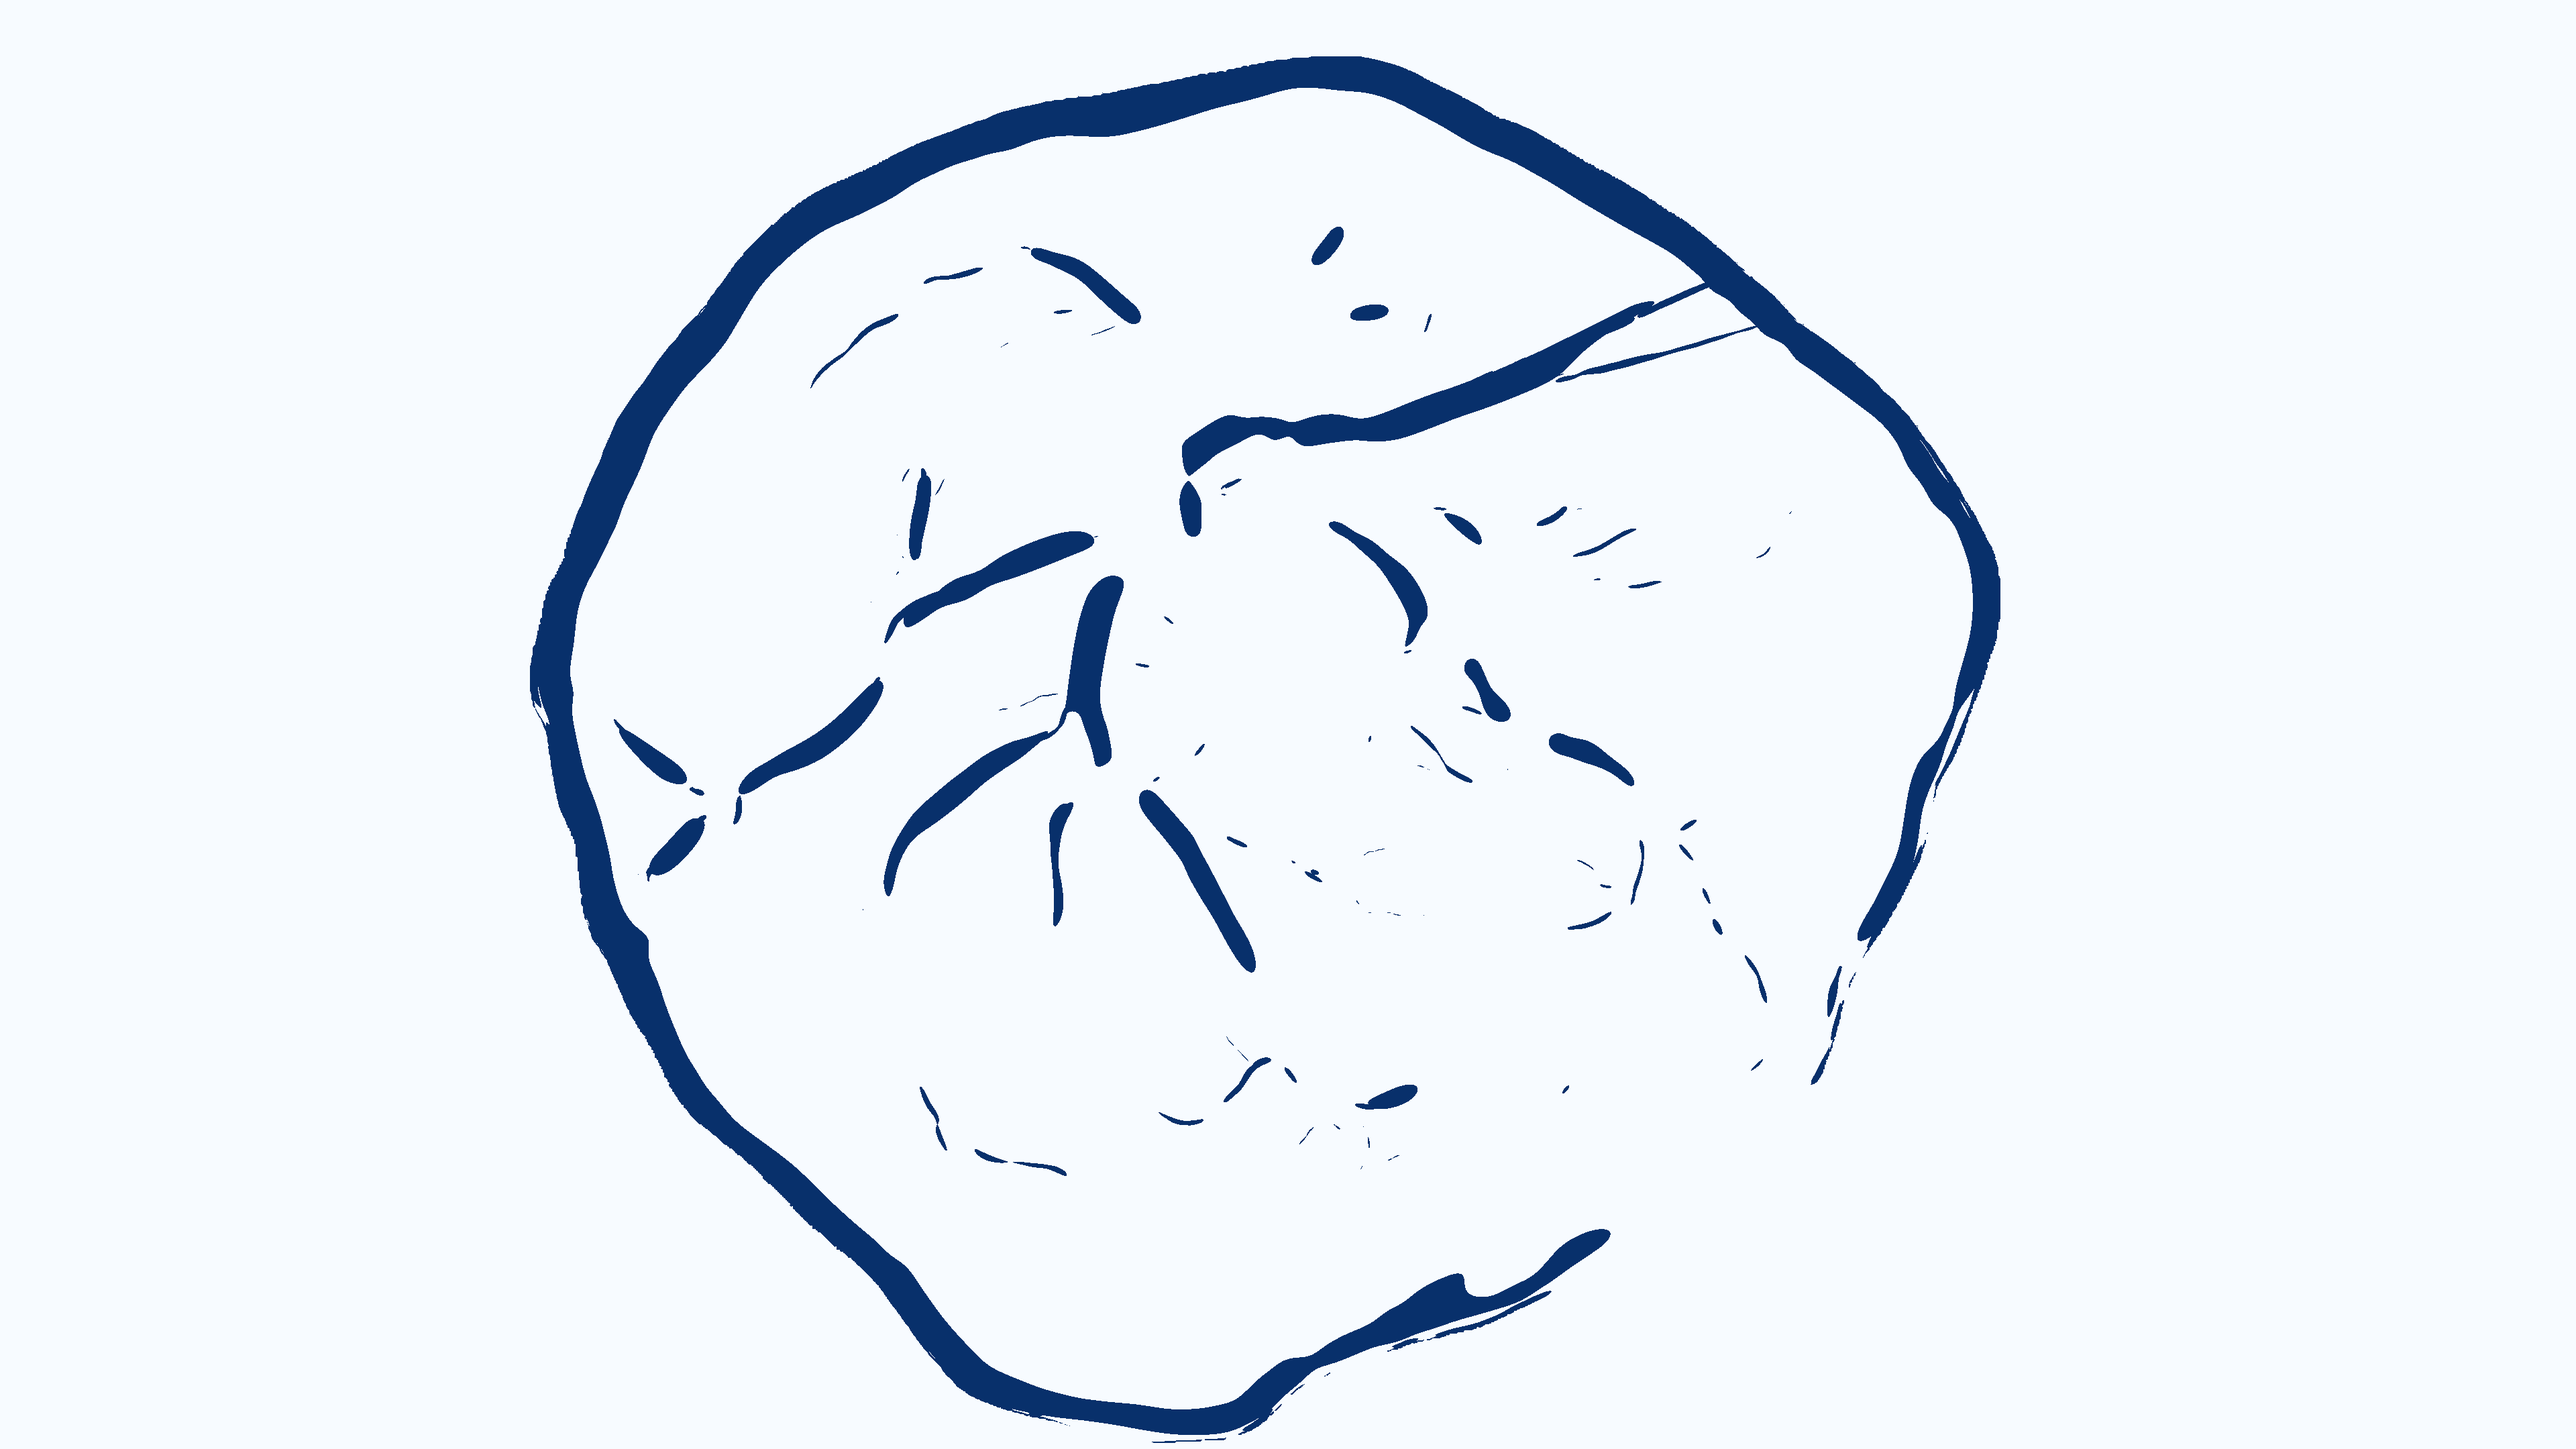
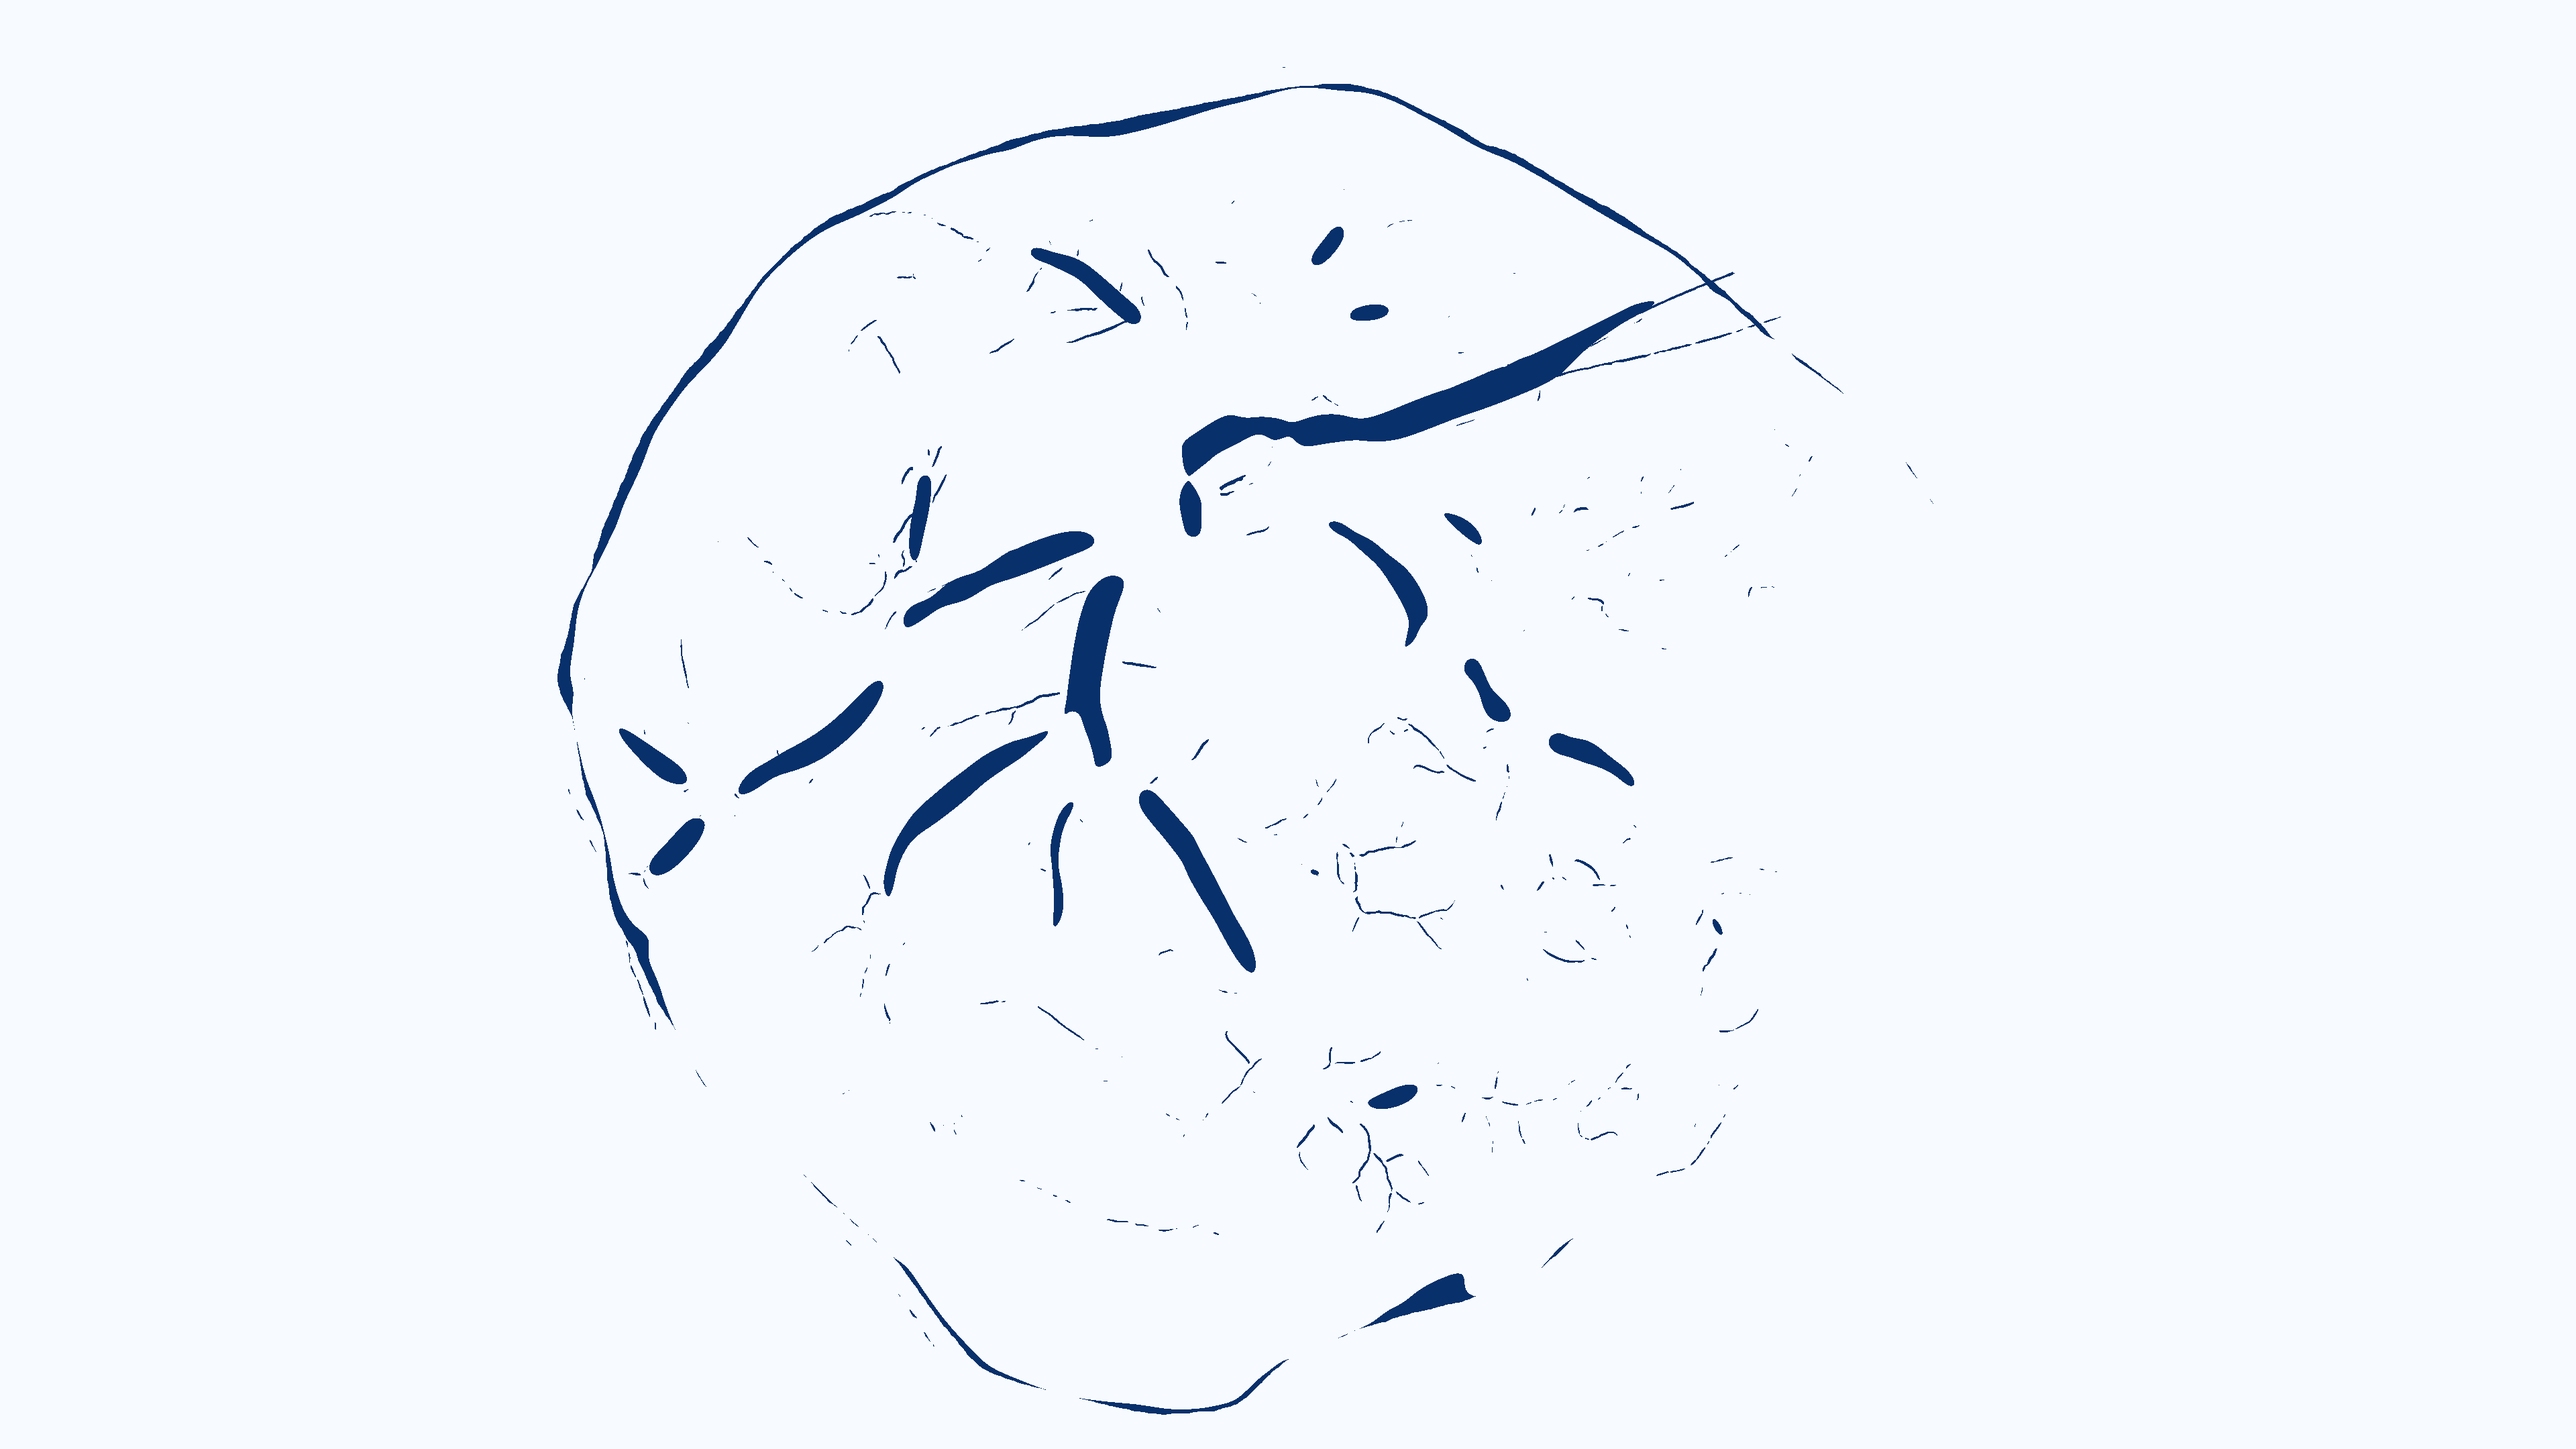
dilate plate, not erode (better logic, not much faster)

diff --git a/pcsvn.py b/pcsvn.py
@@ -9,7 +9,8 @@ import numpy as np
 import numpy.ma as ma
 import pickle
 
-from skimage.morphology import label, skeletonize, disk, binary_erosion, convex_hull_image
+from skimage.morphology import label, skeletonize, disk, binary_erosion, convex_hull_image, binary_dilation
+from skimage.segmentation import find_boundaries
 
 
 def make_multiscale(img, scales, betas, gammas, find_principal_directions=False, VERBOSE=True):
@@ -151,7 +152,29 @@ def erode_plate(img, erosion_radius=20, plate_mask=None):
     # this is by default additive with whatever
     return ma.masked_array(img, mask=eroded_mask)
 
+def dilate_plate(img, radius=10, plate_mask=None):
+    """
+    grows the mask by a specified radius
+    can this return a masked image rather than return a new one
+    to be more memory efficient? or should this just return a
+    mask to be applied?
+    """
 
+    if plate_mask is None:
+        # grab the mask from input image
+        try:
+            plate_mask = img.mask
+        except AttributeError:
+            raise('Need to supply mask information')
+
+    perimeter = find_boundaries(plate_mask)
+
+    # this is extremely inefficient. can it just convolve around
+    # the loop and skip convolving areas where everything is 0?
+    extra_mask = binary_dilation(perimeter, selem=disk(radius))
+
+    # this is by default additive with whatever mask img already has
+    return ma.masked_array(img, mask=extra_mask)
 #################################################################
 #### MAIN LOOP ##################################################
 #################################################################
@@ -182,7 +205,7 @@ bg_mask = img.mask
 ###Set Parameter(s) for Frangi#################
 
 # set range of sigmas to use (declare these above)
-scales = np.logspace(1,5, num=3, base=2)
+scales = np.logspace(1,5, num=2, base=2)
 
 
 # set betas (anisotropy parameters)
@@ -217,9 +240,9 @@ multiscale = make_multiscale(img, scales, betas, gammas,
 print('trimming collars of plates (per scale)')
 
 for i in range(len(multiscale)):
-    f, radius = multiscale[i]['F'], int(multiscale[i]['sigma'])
-    print('eroding plate for σ={}'.format(radius))
-    f = erode_plate(f, erosion_radius=radius, plate_mask=img.mask)
+    f, radius = multiscale[i]['F'], int(multiscale[i]['sigma']*1.5)
+    print('dilating plate for σ={}'.format(radius))
+    f = dilate_plate(f, radius=radius, plate_mask=img.mask)
     multiscale[i]['F'] = f.filled(0)
 
 # Extract Multiscale Features
